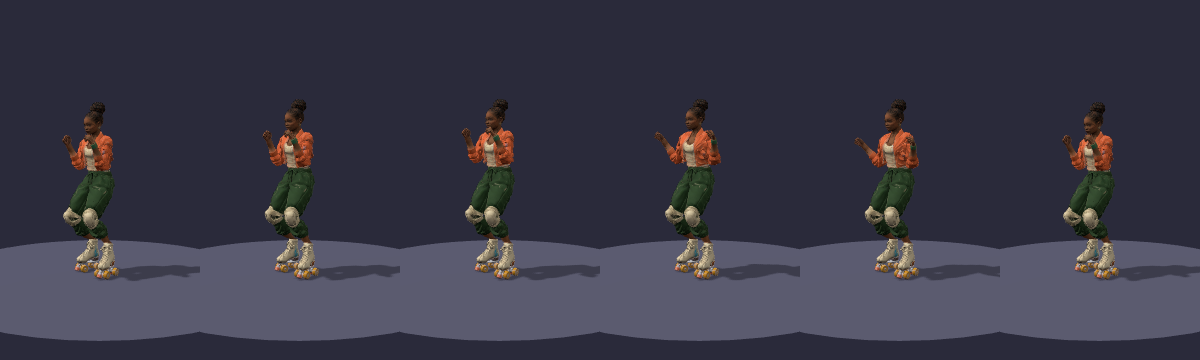
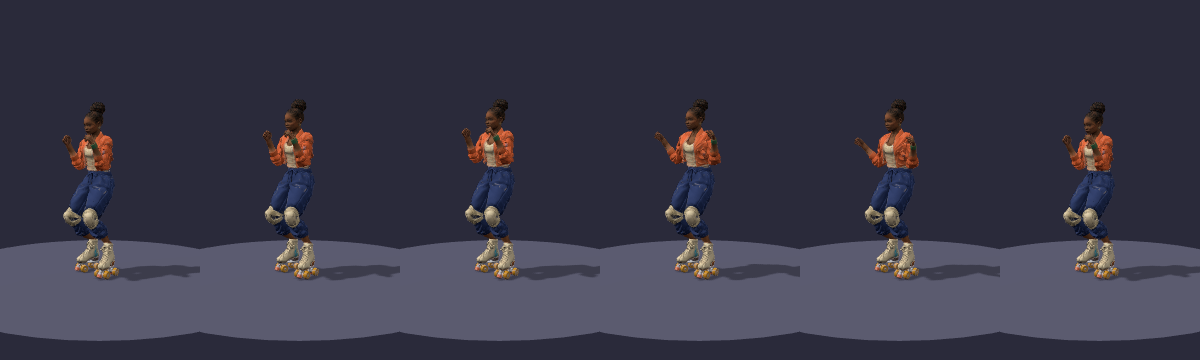
Make Nia's turnaround views and clip sheets again with the navy joggers (#203)
The e2e run made the 25 clip contact sheets and the 5 turnaround
views from the navy GLB. The old files showed the green joggers.
The old views also showed the v1 model.

diff --git a/docs/decisions.md b/docs/decisions.md
@@ -1715,5 +1715,5 @@ Audit #65 found four problems: GEO-2, GEO-3, GFX-4, GFX-5, and EDU-2.
 - Marcus: no change. His colors are a teal jacket and wristbands (hue about 185°, a blue-green, not grass green), navy shorts, white and light gray shirt and pads, dark gray boots and teal wheels. No green or sand areas. The owner decides if the teal is too near the lawn.
 - `npm run perf:check` on the 4-CPU cloud machine: budget PASS, no cap changed. MB on the wire: phone/toon 8.73, low/toon 9.99, high/toon 11.29, phone/pbr 19.77, low/pbr 16.15, high/pbr 27.2 (the pbr rides stop early on this machine).
 - Evidence: `docs/art-direction-pbr/203/` (before and after at the 159-skater camera on the pbr and toon looks, `scripts/art/shots-203.json`). A headless run on the low, phone and high tiers loaded and animated Nia with no console errors; the phone tier loaded `skater-1024.glb`.
-- Not done: the turnaround renders in `assets/skaters/nia/views/` and the clip contact sheets in `assets/skaters/nia/clips/` still show green joggers. They need Blender or the e2e run to make again.
+- The turnaround renders in `assets/skaters/nia/views/` and the 25 clip contact sheets in `assets/skaters/nia/clips/` show the navy joggers. The e2e run made them again: `e2e/skater-anim.spec.js` writes the clip sheets, and `e2e/skater-model.spec.js` writes the views to `e2e/__screenshots__/`, from where they were copied. The old views showed the v1 model, so the framing changes too.
 - Real skaters still review the look with the move set.
